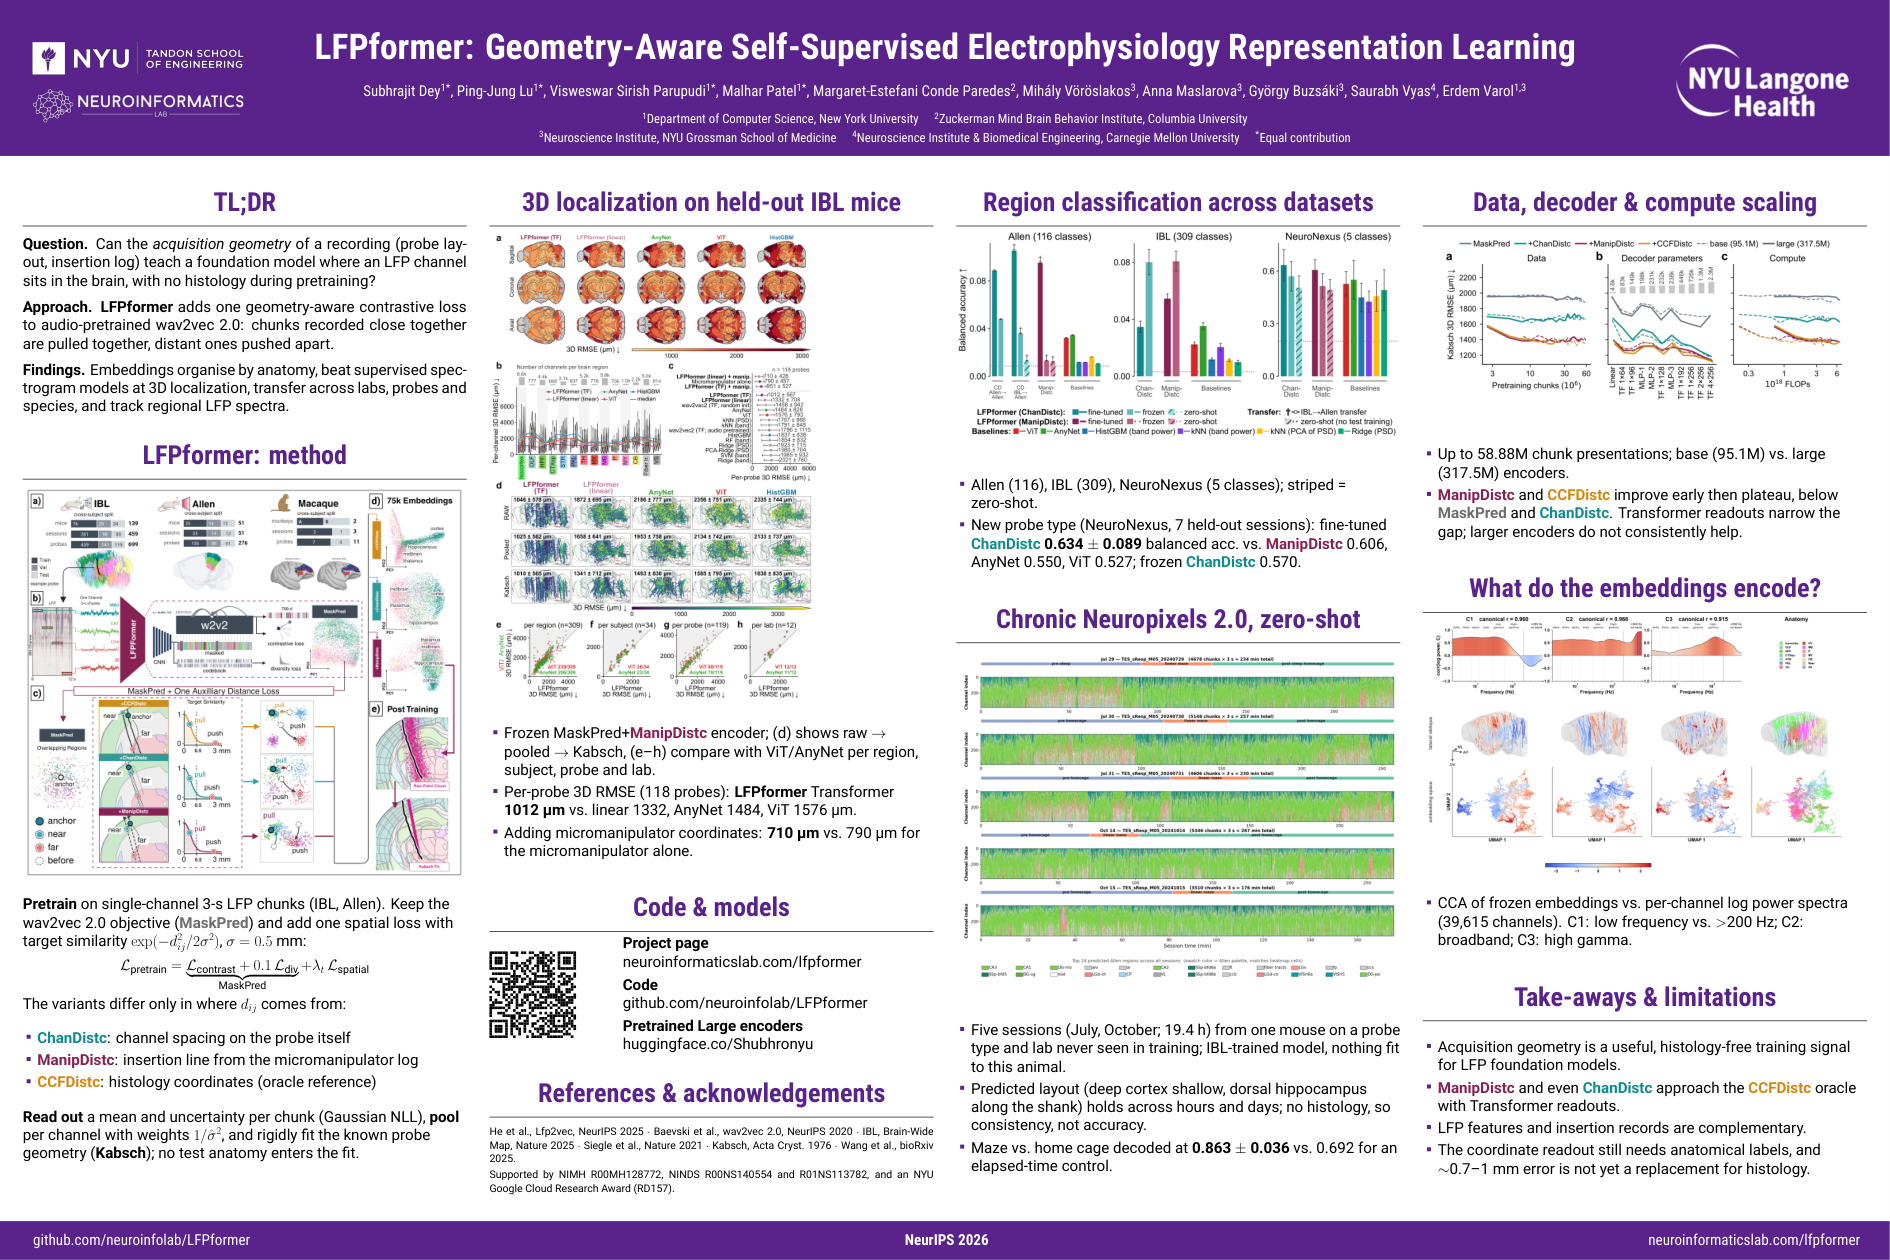
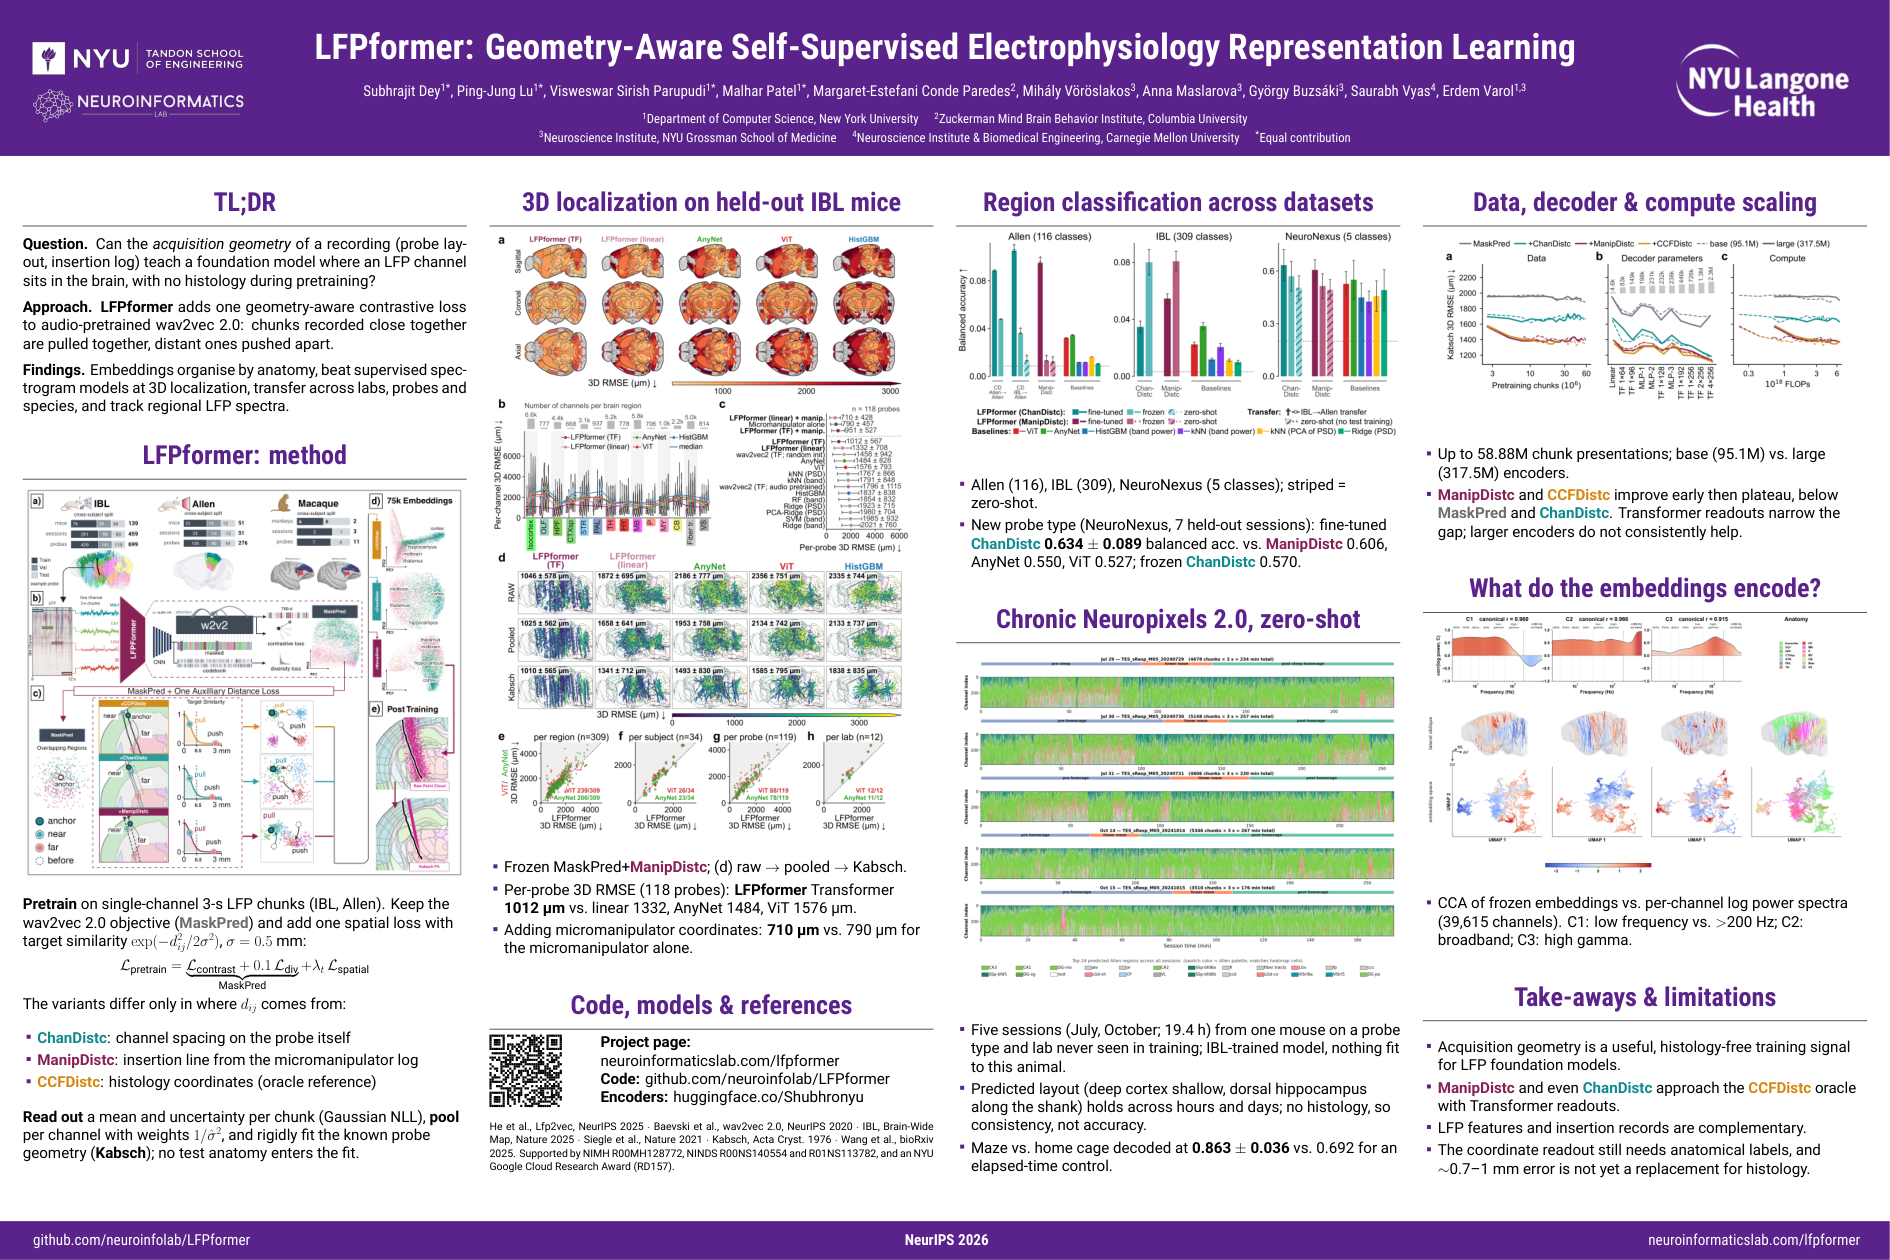
Widen Fig 2 to fill column 2; merge code and references blocks

Changed region(s): [[0.2497, 0.1857, 0.4995, 0.9595]]

diff --git a/poster.tex b/poster.tex
@@ -144,31 +144,29 @@
 
 \begin{block}{3D localization on held-out IBL mice}
   \centering
-  \includegraphics[width=0.74\linewidth]{figures/fig2_ibl_localization.png}
+  \includegraphics[width=0.95\linewidth]{figures/fig2_ibl_localization.png}
   \raggedright
   \begin{itemize}
-    \item Frozen MaskPred+\MD{} encoder; (d) shows raw $\rightarrow$ pooled $\rightarrow$ Kabsch, (e--h) compare with ViT/AnyNet per region, subject, probe and lab.
+    \item Frozen MaskPred+\MD{}; (d) raw $\rightarrow$ pooled $\rightarrow$ Kabsch.
     \item Per-probe 3D RMSE (118 probes): \LF{} Transformer \textbf{1012~µm} vs.\ linear 1332, AnyNet 1484, ViT 1576~µm.
     \item Adding micromanipulator coordinates: \textbf{710~µm} vs.\ 790~µm for the micromanipulator alone.
   \end{itemize}
 \end{block}
 
-\begin{block}{Code \& models}
-  \begin{minipage}[c]{0.27\linewidth}
-    \qrcode[height=5.5cm]{https://www.neuroinformaticslab.com/lfpformer}
+\begin{block}{Code, models \& references}
+  \begin{minipage}[c]{0.22\linewidth}
+    \qrcode[height=4.6cm]{https://www.neuroinformaticslab.com/lfpformer}
   \end{minipage}\hfill
-  \begin{minipage}[c]{0.70\linewidth}
-    \normalsize
-    \textbf{Project page}\\ neuroinformaticslab.com/lfpformer\\[0.6ex]
-    \textbf{Code}\\ github.com/neuroinfolab/LFPformer\\[0.6ex]
-    \textbf{Pretrained Large encoders}\\ huggingface.co/Shubhronyu
+  \begin{minipage}[c]{0.75\linewidth}
+    \normalsize\raggedright
+    \textbf{Project page:} neuroinformaticslab.com/lfpformer\\
+    \textbf{Code:} github.com/neuroinfolab/LFPformer\\
+    \textbf{Encoders:} huggingface.co/Shubhronyu
   \end{minipage}
 
-\end{block}
-
-\begin{block}{References \& acknowledgements}
+  \vspace{0.8ex}
   \footnotesize
-  He et al., Lfp2vec, NeurIPS 2025 $\cdot$ Baevski et al., wav2vec 2.0, NeurIPS 2020 $\cdot$ IBL, Brain-Wide Map, Nature 2025 $\cdot$ Siegle et al., Nature 2021 $\cdot$ Kabsch, Acta Cryst.\ 1976 $\cdot$ Wang et al., bioRxiv 2025.\\[0.5ex]
+  He et al., Lfp2vec, NeurIPS 2025 $\cdot$ Baevski et al., wav2vec 2.0, NeurIPS 2020 $\cdot$ IBL, Brain-Wide Map, Nature 2025 $\cdot$ Siegle et al., Nature 2021 $\cdot$ Kabsch, Acta Cryst.\ 1976 $\cdot$ Wang et al., bioRxiv 2025.
   Supported by NIMH R00MH128772, NINDS R00NS140554 and R01NS113782, and an NYU Google Cloud Research Award (RD157).
 \end{block}
 
